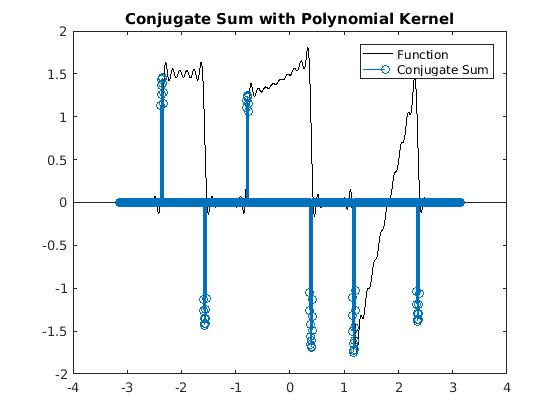
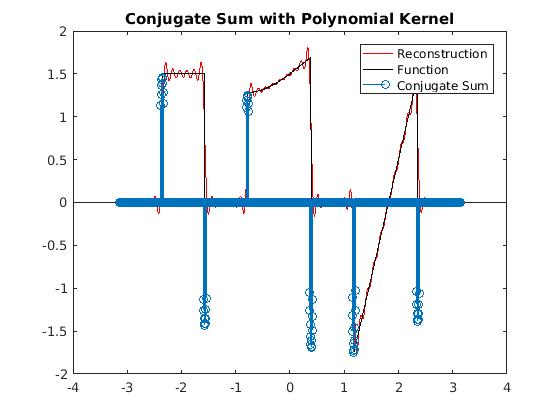
updated pictures, adjustet piecewise approx

diff --git a/piecewise_sawtooth_est.m b/piecewise_sawtooth_est.m
@@ -17,7 +17,7 @@ stem(domain, edge_approx .* (abs(edge_approx) > 1));
 legend('Function', 'Conjugate Sum');
 title('Conjugate Sum with Polynomial Kernel');
 
-
+[peaks, locations] = findpeaks(edge_approx .* (abs(edge_approx) > 1));
 figure;
 
 %%%%%%%%%%%%%%%%%% initialize jump function
@@ -123,6 +123,14 @@ err_orig = abs(reconstruction_orig - gg);
 semilogy(domain, err_final, 'k', domain, err_orig, 'r');
 title('Error plot');
 legend('New Reconstruction', 'Old Reconstruction');
+
+
+
+plot(domain, reconstruction_orig, 'r', domain, gg, 'k');
+hold on;
+stem(domain, edge_approx .* (abs(edge_approx) > 1));
+legend('Reconstruction', 'Function', 'Conjugate Sum');
+title('Conjugate Sum with Polynomial Kernel');
 
 
 
